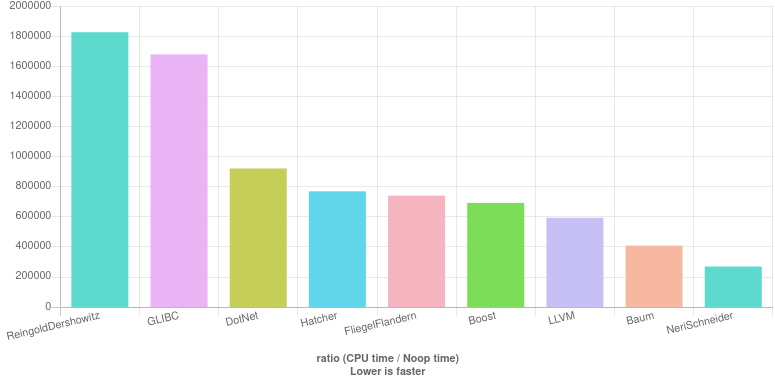
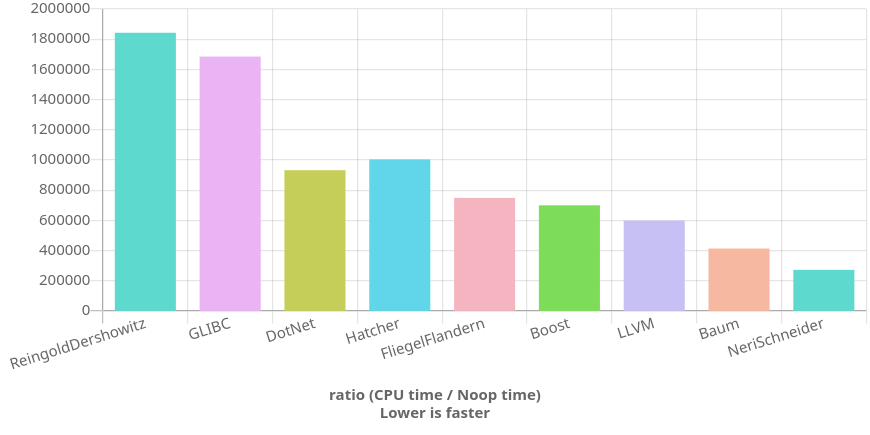
Updated benchmaks, added makefile.

diff --git a/benchmarks/to_rata_die.cpp b/benchmarks/to_rata_die.cpp
@@ -20,6 +20,7 @@
  *
  ******************************************************************************/
 
+#include <benchmark/benchmark.h>
 #include <cstdint>
 #include <random>
 #include <type_traits>
@@ -49,27 +50,27 @@ namespace neri_schneider {
 
   rata_die_t constexpr
   to_rata_die(date_t const& u2) noexcept {
-    
+
     using rata_die_t     = std::make_unsigned_t<::rata_die_t>;
     auto constexpr z2    = rata_die_t(-1468000);
     auto constexpr n2_e3 = rata_die_t(536895458);
-    
+
     auto const     y1    = rata_die_t(u2.year) - z2;
     auto const     m1    = rata_die_t(u2.month);
     auto const     d1    = rata_die_t(u2.day);
-    
+
     auto const     j     = rata_die_t(m1 < 3);
     auto const     y     = y1 - j;
     auto const     m     = j ? m1 + 12 : m1;
     auto const     d     = d1 - 1;
-    
+
     auto const     q1    = y / 100;
     auto const     yc    = 1461 * y / 4 - q1 + q1 / 4;
     auto const     mc    = (979 * m - 2922) / 32;
     auto const     dc    = d;
-    
+
     auto const     n3    = yc + mc + dc - n2_e3;
-    
+
     return n3;
   }
 
@@ -186,7 +187,7 @@ namespace dotnet {
 } // namespace dotnet
 
 namespace fliegel_flandern {
-  
+
   rata_die_t static constexpr
   to_rata_die(const date_t& u) noexcept {
     auto const I  = rata_die_t(u.year);
@@ -387,31 +388,31 @@ to_date(rata_die_t n3) noexcept {
   auto constexpr n2_e3 = rata_die_t(536895458);
 
   auto const     n0    = n3 + n2_e3;
-  
+
   auto const     p1    = 4 * n0 + 3;
   auto const     q1    = p1 / 146097;
   auto const     r1    = p1 % 146097 / 4;
-  
+
   auto constexpr p32   = std::uint64_t(1) << 32;
   auto const     p2    = 4 * r1 + 3;
   auto const     x2    = std::uint64_t(2939745) * p2;
   auto const     q2    = rata_die_t(x2 / p32);
   auto const     r2    = rata_die_t(x2 % p32 / 2939745 / 4);
-  
+
   auto constexpr p16   = std::uint32_t(1) << 16;
   auto const     p3    = 2141 * r2 + 197657;
   auto const     q3    = p3 / p16;
   auto const     r3    = p3 % p16 / 2141;
-  
+
   auto const     y     = 100 * q1 + q2;
   auto const     m     = q3;
   auto const     d     = r3;
-  
+
   auto const     j     = r2 > 305;
   auto const     y1    = y + j;
   auto const     m1    = j ? m - 12 : m;
   auto const     d1    = d + 1;
-  
+
   return { year_t(y1 + z2), month_t(m1), day_t(d1) };
 }
 

diff --git a/benchmarks/to_date.cpp b/benchmarks/to_date.cpp
@@ -20,9 +20,10 @@
  *
  ******************************************************************************/
 
+#include <benchmark/benchmark.h>
+#include <array>
 #include <cstdint>
 #include <random>
-#include <type_traits>
 
 //----------------------------
 // Config
@@ -49,37 +50,37 @@ namespace neri_schneider {
 
   date_t constexpr
   to_date(rata_die_t n3) noexcept {
-  
+
     using rata_die_t     = std::make_unsigned_t<::rata_die_t>;
     auto constexpr z2    = rata_die_t(-1468000);
     auto constexpr n2_e3 = rata_die_t(536895458);
 
     auto const     n0    = n3 + n2_e3;
-    
+
     auto const     p1    = 4 * n0 + 3;
     auto const     q1    = p1 / 146097;
     auto const     r1    = p1 % 146097 / 4;
-    
+
     auto constexpr p32   = std::uint64_t(1) << 32;
     auto const     p2    = 4 * r1 + 3;
     auto const     x2    = std::uint64_t(2939745) * p2;
     auto const     q2    = rata_die_t(x2 / p32);
     auto const     r2    = rata_die_t(x2 % p32 / 2939745 / 4);
-    
+
     auto constexpr p16   = std::uint32_t(1) << 16;
     auto const     p3    = 2141 * r2 + 197657;
     auto const     q3    = p3 / p16;
     auto const     r3    = p3 % p16 / 2141;
-    
+
     auto const     y     = 100 * q1 + q2;
     auto const     m     = q3;
     auto const     d     = r3;
-    
+
     auto const     j     = r2 > 305;
     auto const     y1    = y + j;
     auto const     m1    = j ? m - 12 : m;
     auto const     d1    = d + 1;
-    
+
     return { year_t(y1 + z2), month_t(m1), day_t(d1) };
   }
 
@@ -238,7 +239,7 @@ namespace fliegel_flandern {
                I  = 100 * (N - 49) + I + L;
     return { year_t(I), month_t(J), day_t(K) };
   }
-  
+
 } // namespace fliegel_flandern
 
 namespace glibc {

diff --git a/benchmarks/is_leap_year.cpp b/benchmarks/is_leap_year.cpp
@@ -20,6 +20,8 @@
  *
  ******************************************************************************/
 
+#include <benchmark/benchmark.h>
+#include <array>
 #include <cstdint>
 #include <random>
 

diff --git a/benchmarks/last_day_of_month.cpp b/benchmarks/last_day_of_month.cpp
@@ -20,6 +20,8 @@
  *
  ******************************************************************************/
 
+#include <benchmark/benchmark.h>
+#include <array>
 #include <cstdint>
 #include <random>
 

diff --git a/README.md b/README.md
@@ -18,21 +18,21 @@ implementations perform considerably faster than others.
 
 ![Benchmarks](https://github.com/cassioneri/calendar/blob/master/benchmarks/benchmarks.png)
 
-[is_leap_year](https://quick-bench.com/q/59NUOm9iL-A5rCCV-X4b7_z6IMw): NeriSchneider_mcomp is 3.2x
+[is_leap_year](https://quick-bench.com/q/CnSnzJTarIKBvtqlnbNHqKU5h_o): NeriSchneider_mcomp is 3.1x
 faster than Ubiquitous (the implementation used virtually everywhere.) NeriSchneider_mod is 1.9x
 faster than Ubiquitous.
 
-[last_day_of_month](https://quick-bench.com/q/f-aLzIcjpy90C9_CgJ2kBrbsXiQ): NeriSchneider is 3.1x 
+[last_day_of_month](https://quick-bench.com/q/-nzPvHw621sPVaDdHTlLoHoV8Lc): NeriSchneider is 3.2x
 faster than Boost and 1.1x faster than LLVM.
 
-[to_rata_die](https://quick-bench.com/q/AWsTXPff7zsrbn7LhWTheIhJu4o): NeriSchneider is 3.2x faster 
-than ReingoldDershowitz, 2x faster than glibc, 1.8x faster than .NET, 2.3x faster than Hatcher, 2.2x
-faster than FliegelFlandern, 1.9x faster than Boost, 1.7x faster than LLVM and 1.5x faster than 
+[to_rata_die](https://quick-bench.com/q/zAtSlIlm8MiDqKK573pMxulH-b4): NeriSchneider is 3.2x faster
+than ReingoldDershowitz, 2x faster than glibc, 1.8x faster than .NET, 2.3x faster than Hatcher, 2.4x
+faster than FliegelFlandern, 1.7x faster than Boost, 1.7x faster than LLVM and 1.5x faster than
 Baum.
 
-[to_date](https://quick-bench.com/q/2jUpC6Rnn0Ux54hjSxJ9_1tGHoE): NeriSchneider is 6.8x faster than 
-ReingoldDershowitz, 6.2x faster than glibc, 3.4x faster than .NET, 2.9x faster than Hatcher, 2.8x
-faster than FliegelFlandern, 2.6x faster than Boost, 2.2x faster than LLVM and 1.5x faster than 
+[to_date](https://quick-bench.com/q/LT0085FvE-39Xm-yj2-XwzWsPrI): NeriSchneider is 6.8x faster than
+ReingoldDershowitz, 6.2x faster than glibc, 3.4x faster than .NET, 3.7x faster than Hatcher, 2.8x
+faster than FliegelFlandern, 2.6x faster than Boost, 2.2x faster than LLVM and 1.5x faster than
 Baum.
 
 **Disclaimer**: Benchmarks above compare implementations as of 2020-May-02. They might have been
